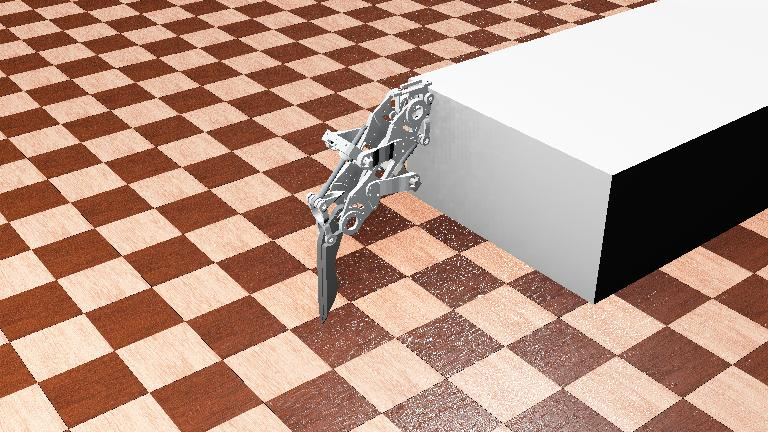
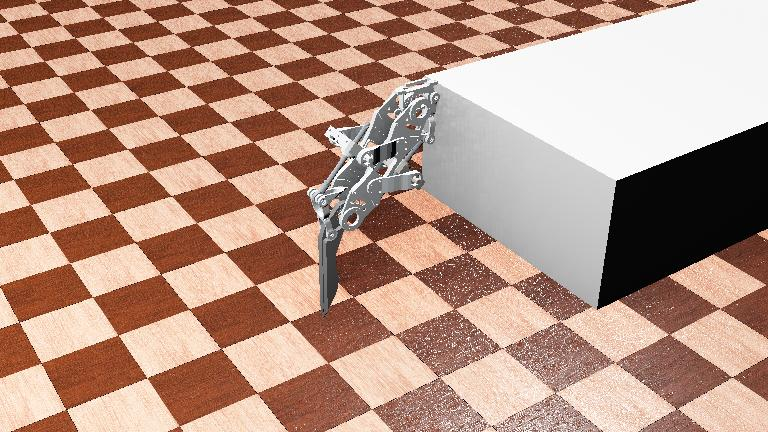
add loop control
add loop control

diff --git a/controllers/my_controller/my_controller.py b/controllers/my_controller/my_controller.py
@@ -3,26 +3,79 @@
 # You may need to import some classes of the controller module. Ex:
 #  from controller import Robot, Motor, DistanceSensor
 from controller import Robot
+from controller import GPS
+import math
+
+AGENT = True
+# AGENT = False
 
 # create the Robot instance.
 robot = Robot()
+gps = GPS('gps')
+motor_shank = robot.getDevice('screw_shank_joint')
+motor_hip = robot.getDevice('screw_hip_joint')
 
-# get the time step of the current world.
 timestep = int(robot.getBasicTimeStep())
 
-# You should insert a getDevice-like function in order to get the
-# instance of a device of the robot. Something like:
-#  motor = robot.getDevice('motorname')
-#  ds = robot.getDevice('dsname')
-#  ds.enable(timestep)
+gps.enable(timestep)
+motor_shank.enableTorqueFeedback(timestep)
+motor_hip.enableTorqueFeedback(timestep)
+
+shank_limit = [-0.02, 0.08]
+hip_limit = [-0.009, 0.06]
+shank_trace, hip_trace = [], []
+period = [100, 4]
+T = sum(period)
+
+
+counter = 0
+
+def nonlinear_trace(total, start_val, end_val):
+    mapped_step = math.pi / (total - 1)
+    result = []
+    for i in range(total):
+        step = start_val + (end_val - start_val) * (math.sin(mapped_step * i - math.pi / 2) + 1) / 2
+        result.append(step)
+    return result
+
+def linear_step(total, start_val, end_val):
+    result = []
+    for i in range(total):
+        step = start_val + i * ((end_val - start_val) / (total - 1))
+        result.append(step)
+    return result
+
+def define_trace():
+    global shank_trace, hip_trace
+    shank_trace += nonlinear_trace(period[0], shank_limit[0], shank_limit[1])
+    hip_trace += nonlinear_trace(period[0], hip_limit[1], hip_limit[0])
+    shank_trace += nonlinear_trace(period[1], shank_limit[1], shank_limit[0])
+    hip_trace += nonlinear_trace(period[1], hip_limit[0], hip_limit[1])
+
+def jump():
+    global counter
+    if AGENT:
+        counter += 1
+        counter %= T
+        motor_shank.setPosition(shank_trace[counter])
+        motor_hip.setPosition(hip_trace[counter])
+    # print(f"{gps.getValues()[2]=:.4f}", end='\t')
+    # print(f"{motor_shank.getForceFeedback()=:.1f}", end='\t')
+    # print(f"{motor_hip.getForceFeedback()=:.1f}")
+
+define_trace()
+motor_shank.setPosition(shank_trace[counter])
+motor_hip.setPosition(hip_trace[counter])
 
 # Main loop:
 # - perform simulation steps until Webots is stopping the controller
 while robot.step(timestep) != -1:
+    if robot.getTime() < 2:
+        continue
     # Read the sensors:
     # Enter here functions to read sensor data, like:
     #  val = ds.getValue()
-    
+    jump()
     # Process sensor data here.
 
     # Enter here functions to send actuator commands, like:
